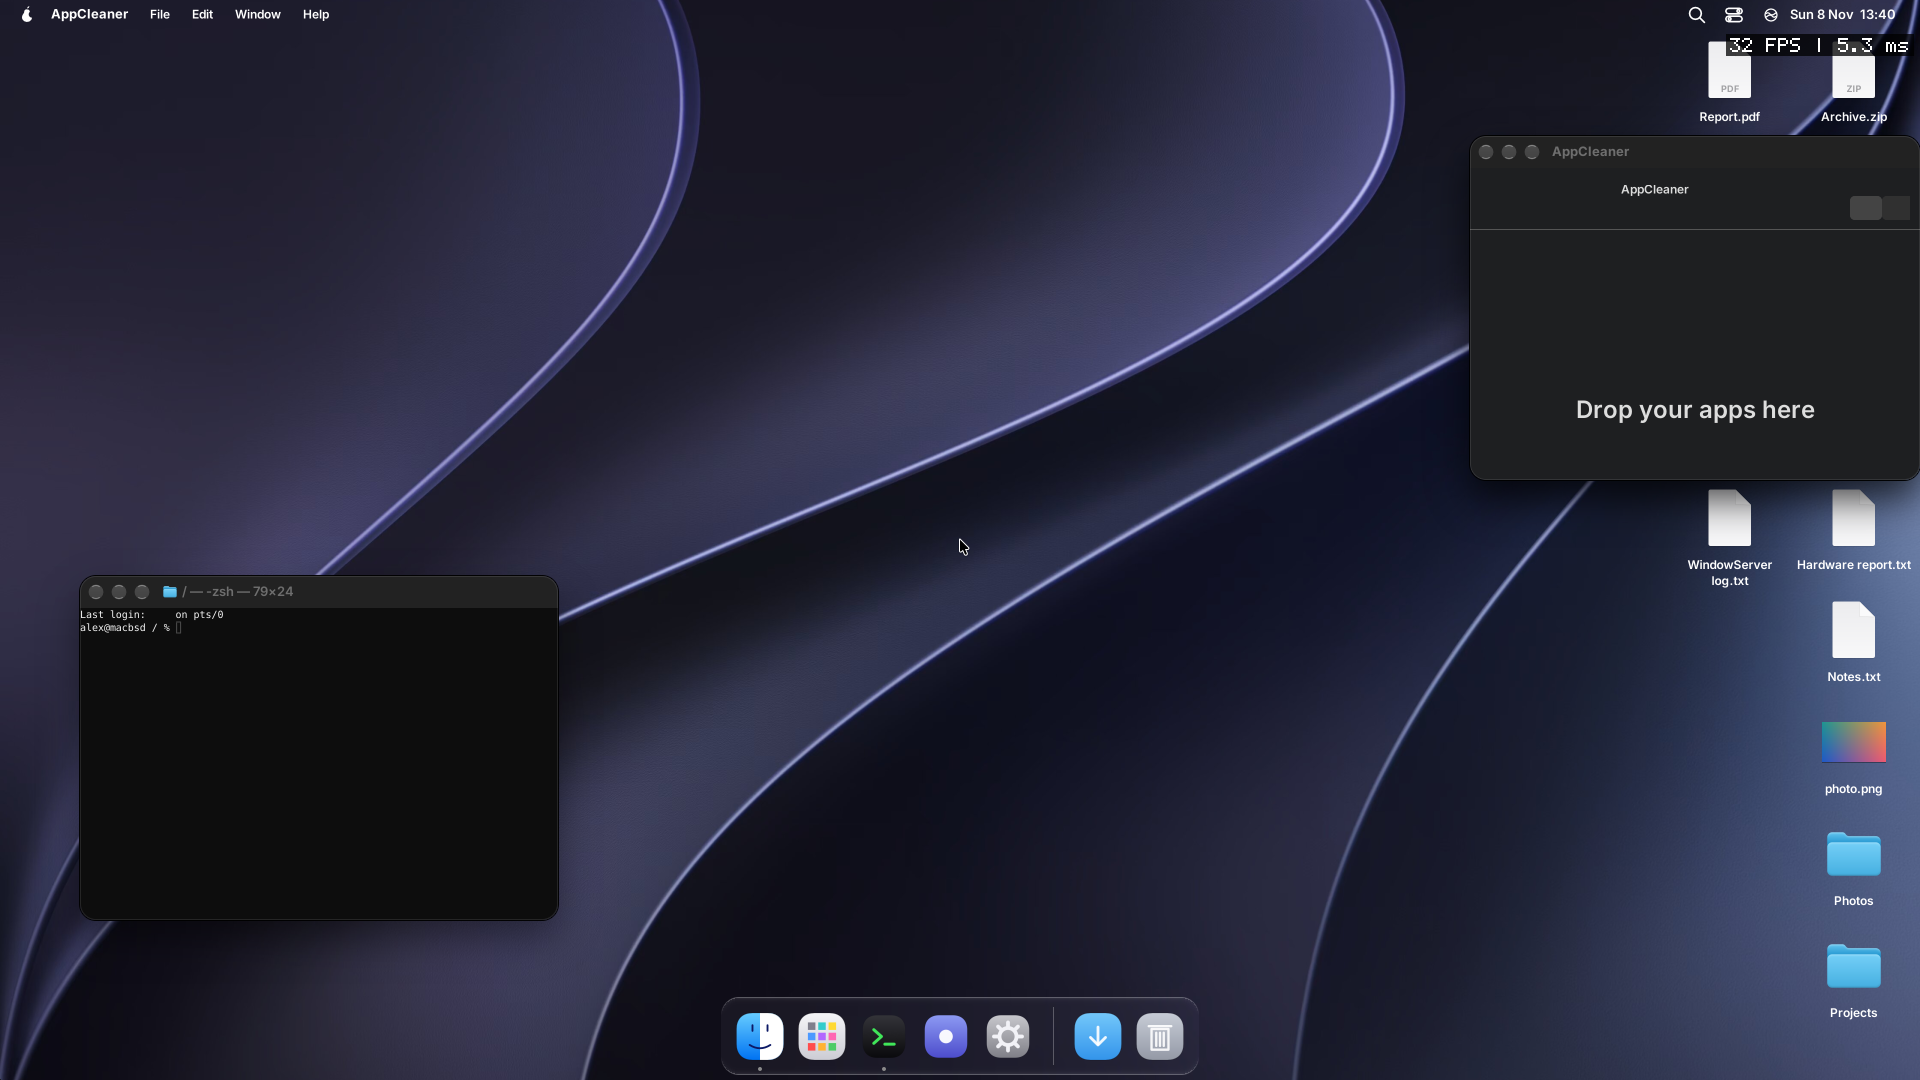
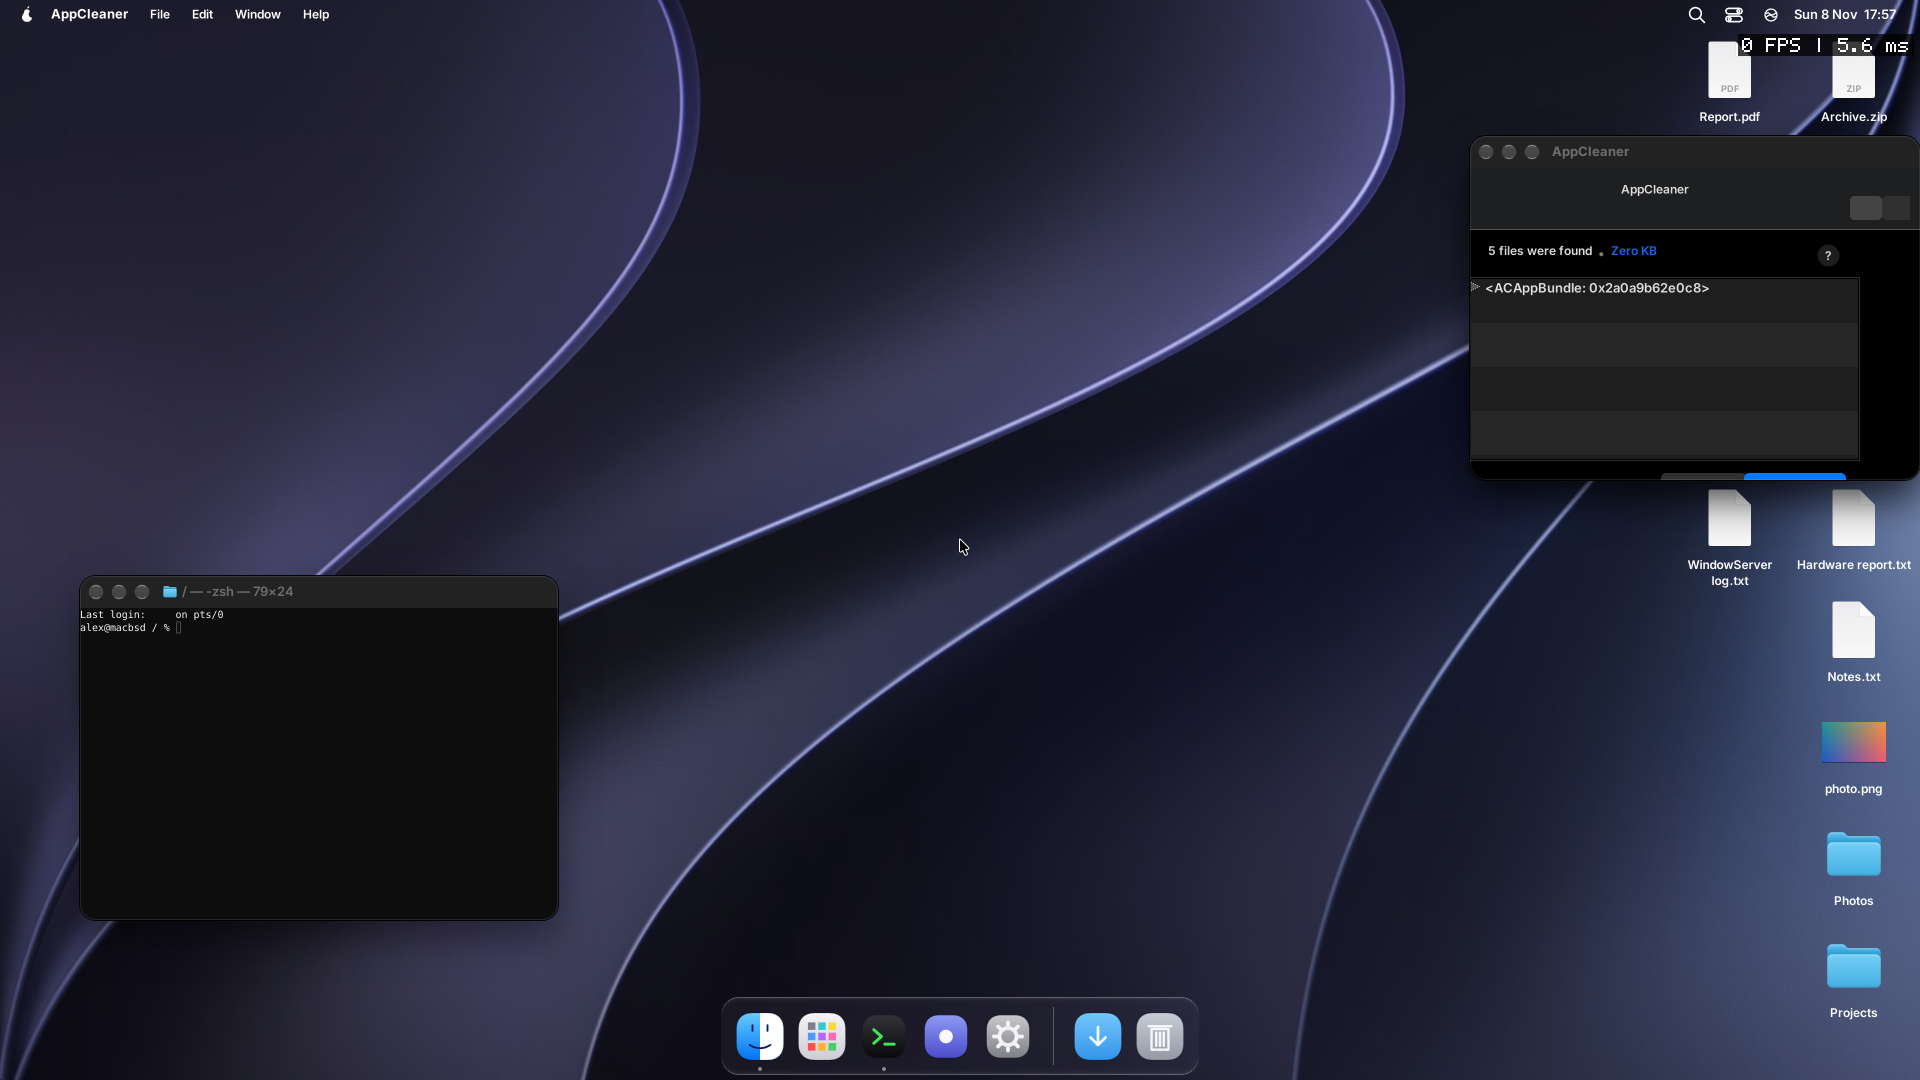
AppCleaner shows the list of files in its window: NSView animator is the view itself, NSAnimationContext applies at once (the list view was pushed in from x = 450)

diff --git a/dyld/compat.m b/dyld/compat.m
@@ -525,12 +525,14 @@ animation_init(void)
 	Class k = NSClassFromString(@"NSAnimationContext"); Class m;
 	if (k == Nil) return;
 	(void)[k class]; m = object_getClass(k);
-	class_addMethod(m, @selector(runAnimationGroup:completionHandler:), (IMP)anim_run, "v32@0:8@?16@?24");
-	class_addMethod(m, @selector(runAnimationGroup:), (IMP)anim_perform, "v24@0:8@?16");
-	class_addMethod(m, @selector(beginGrouping), (IMP)anim_begin, "v16@0:8");
-	class_addMethod(m, @selector(endGrouping), (IMP)anim_begin, "v16@0:8");
-	class_addMethod(m, @selector(currentContext), (IMP)anim_current, "@16@0:8");
-	class_addMethod(k, @selector(setDuration:), (IMP)anim_setduration, "v24@0:8d16");
+#define	SETCLS(sel, imp, enc) do { Method mm = class_getClassMethod(k, sel); if (mm != NULL) method_setImplementation(mm, (IMP)imp); else class_addMethod(m, sel, (IMP)imp, enc); } while (0)
+	SETCLS(@selector(runAnimationGroup:completionHandler:), anim_run, "v32@0:8@?16@?24");
+	SETCLS(@selector(runAnimationGroup:), anim_perform, "v24@0:8@?16");
+	SETCLS(@selector(beginGrouping), anim_begin, "v16@0:8");
+	SETCLS(@selector(endGrouping), anim_begin, "v16@0:8");
+	SETCLS(@selector(currentContext), anim_current, "@16@0:8");
+	if (getenv("MACHRUN_DEBUG")) fprintf(stderr, "machrun: NSAnimationContext methods set\n");
+	{ Method im = class_getInstanceMethod(k, @selector(setDuration:)); if (im) method_setImplementation(im, (IMP)anim_setduration); else class_addMethod(k, @selector(setDuration:), (IMP)anim_setduration, "v24@0:8d16"); }
 	class_addMethod(k, @selector(setAllowsImplicitAnimation:), (IMP)anim_setbool, "v20@0:8c16");
 }
 
@@ -1022,4 +1024,22 @@ fontenum_init(void)
 	if (k == Nil) return;
 	(void)[k class];
 	if ((m = class_getClassMethod(k, @selector(sharedEnumerator))) != NULL) o_fontEnumShared = method_setImplementation(m, (IMP)w_fontEnumShared);
+}
+
+/* -[NSView animator] and -[NSWindow animator] (the proxy whose setters animate): here the proxy is the object itself, so animator.frame = x sets the frame at once.  AppCleaner pushes its list view in
+ * from x = 450 with it: without this the view stays outside of the window. */
+static id anim_self(id self, SEL _cmd) { return self; }
+static void anim_setanimations(id self, SEL _cmd, id d) { }
+__attribute__((constructor)) static void
+animator_init(void)
+{
+	const char *names[] = { "NSView", "NSWindow", "NSControl", "NSLayoutConstraint" }; int i;
+	for (i = 0; i < 4; i++) {
+		Class k = NSClassFromString([NSString stringWithUTF8String:names[i]]);
+		if (k == Nil) continue;
+		(void)[k class];
+		if (getenv("MACHRUN_DEBUG")) fprintf(stderr, "machrun: animator of %s: %s\n", names[i], class_getInstanceMethod(k, @selector(animator)) ? "replaced" : "added");
+		{ Method am = class_getInstanceMethod(k, @selector(animator)); if (am != NULL) method_setImplementation(am, (IMP)anim_self); else class_addMethod(k, @selector(animator), (IMP)anim_self, "@16@0:8"); }
+		class_addMethod(k, @selector(setAnimations:), (IMP)anim_setanimations, "v24@0:8@16");
+	}
 }

diff --git a/docs/APPCLEANER.md b/docs/APPCLEANER.md
@@ -53,6 +53,8 @@ ok   com.aone.keka.plist is in ~/.Trash                        (and the other th
 
 ## Where it stops
 
-The application does its work, but the window does not show the result: the list of files is built (the test reads it from the application) and the window stays on "Searching...".
-Probably the auto layout of the list view (the solver of GNUstep ignores constraints that it cannot solve).
+The window shows the result now: "5 files were found" and the list (the list view was outside of the window, at x = 450, because `animator` did not exist and the push animation never moved it;
+`-[NSView animator]` is the object itself and `NSAnimationContext` makes its changes at once, `compat.m`).
+Not right yet: the row shows the description of the object (`<ACAppBundle: 0x...>`) and not the name and icon (the cell view of the nib gets its text from a binding that GNUstep does not evaluate the same way),
+and the size says "Zero KB" (the sizes of the files come from `getAllocatedSize:ofItemAtURL:...` of AppCleaner, which uses calls of macOS that are not here).
 Open: the images of `Assets.car` (no CoreUI reader), PDF images (`DropApp.pdf`), Sparkle as a library, a crash in `objc_msgSend` that was seen once at start and not again.

diff --git a/README.md b/README.md
@@ -16,7 +16,7 @@ Written from the public description of the Mach-O format and the system call con
 
 ![AppCleaner 3.7 (the unmodified Mac application) running in pearOS](docs/screenshot-appcleaner.png)
 
-*AppCleaner 3.7, an original Mach-O application of macOS 15 (Objective-C, chained fixups, Xcode 16 nibs, Sparkle), in its main window in the pearOS image. It starts, finds the files that an application leaves in `~/Library` and removes them (`tests/appcleaner.sh`, 13 checks); the window itself does not show the list yet (`docs/APPCLEANER.md`).*
+*AppCleaner 3.7, an original Mach-O application of macOS 15 (Objective-C, chained fixups, Xcode 16 nibs, Sparkle), in its main window in the pearOS image. It starts, finds the files that an application leaves in `~/Library` and removes them (`tests/appcleaner.sh`, 13 checks); the window shows the list of files (the rows still show the description of the object instead of the names: `docs/APPCLEANER.md`).*
 
 ## State
 
